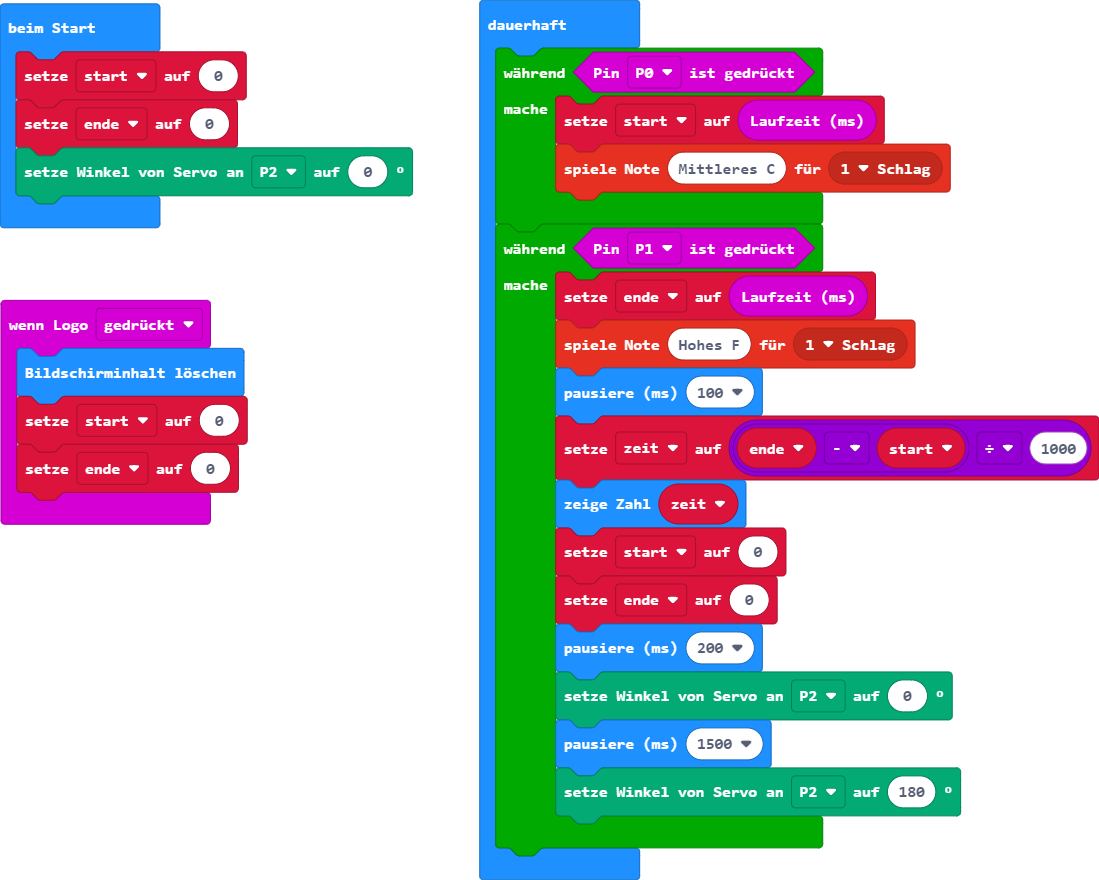
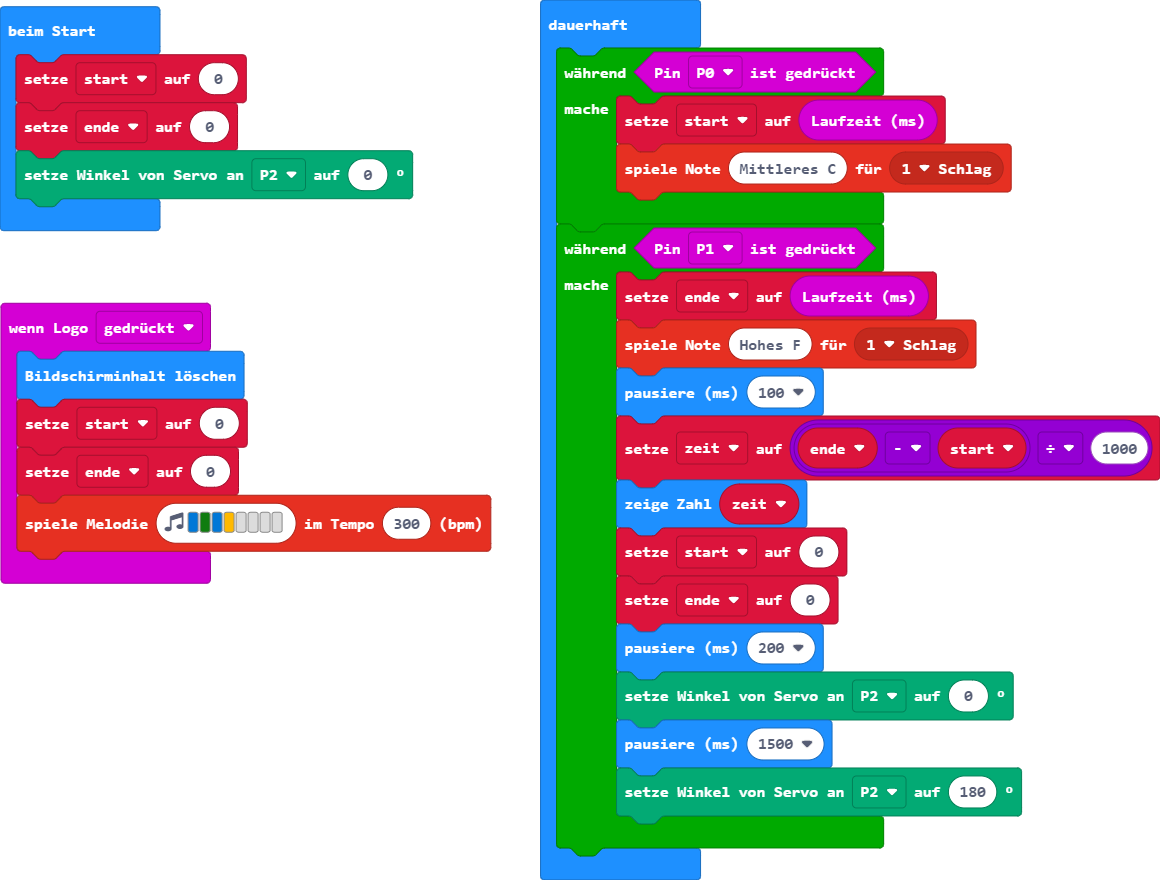
Aktualisiere main.blocks, main.ts

Changed region(s): [[0.0, 0.0, 1.0, 1.0], [0.0, 0.0, 0.4022, 0.2761]]

diff --git a/main.ts b/main.ts
@@ -2,6 +2,7 @@ input.onLogoEvent(TouchButtonEvent.Pressed, function () {
     basic.clearScreen()
     start = 0
     ende = 0
+    music.playMelody("E G E A - - - - ", 300)
 })
 let zeit = 0
 let ende = 0
